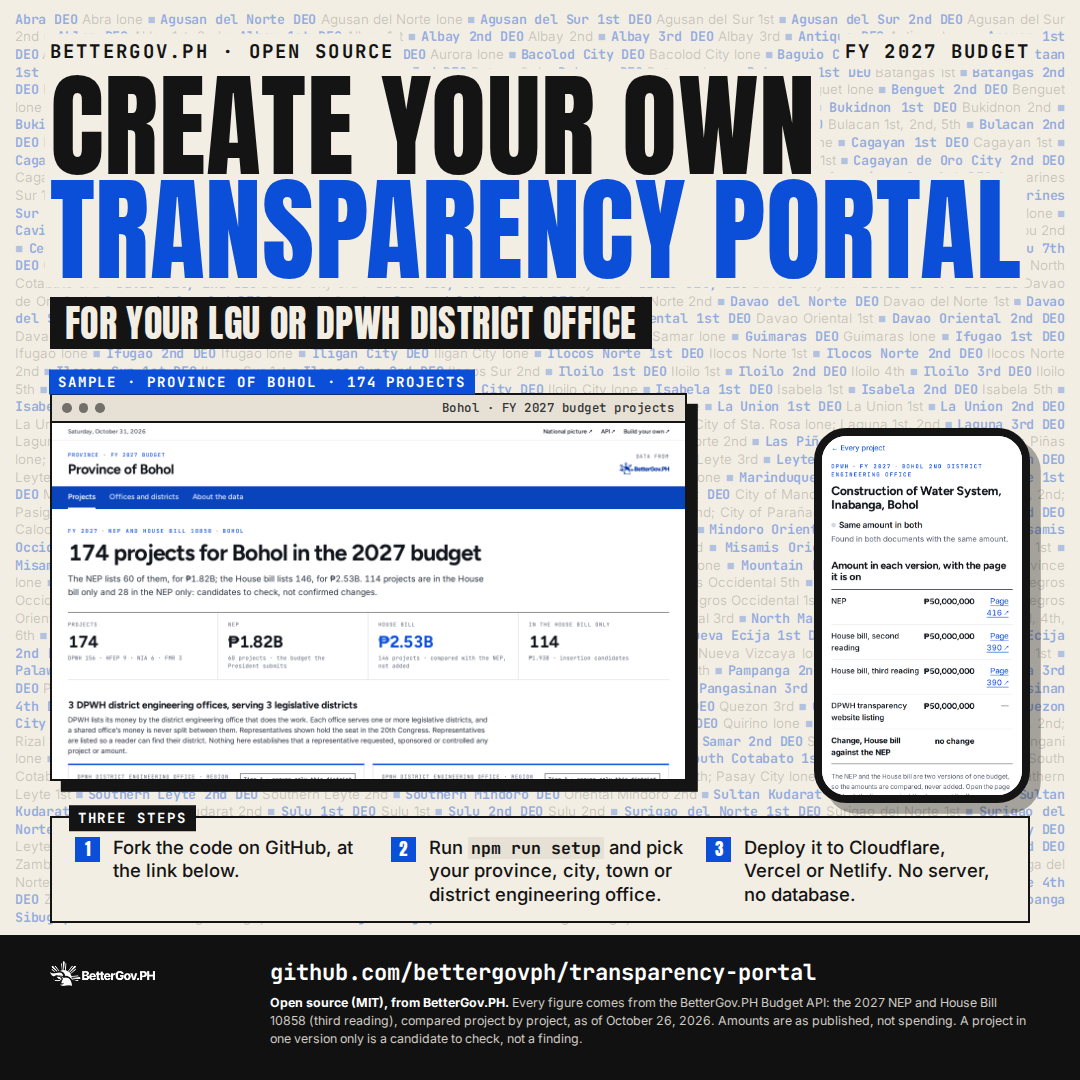
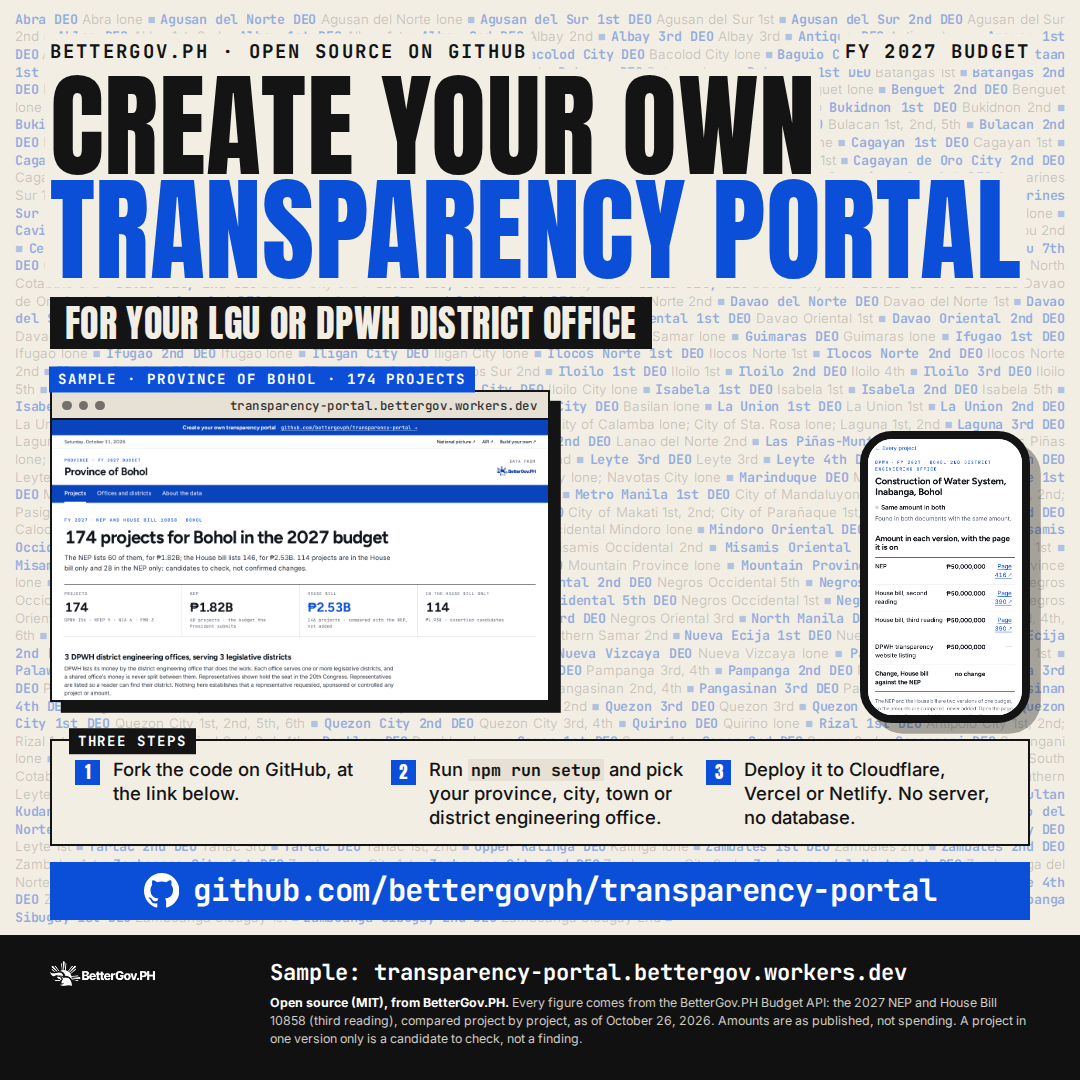
feat: the GitHub link, louder; the sample, live
- A blue "Create your own transparency portal" strip above the masthead
  links to the source on GitHub. On by default; buildYourOwnStrip: false
  turns it off.
- The sample (Province of Bohol) is deployed to BetterGov's Cloudflare at
  https://transparency-portal.bettergov.workers.dev; siteUrl is set to it
  so link previews carry the right canonical address. The README links it.
- Poster: the repository address in a full-width blue band with the GitHub
  mark; the browser frame shows the sample's real address and the footer
  names it. The sample image now sizes itself to the space the band leaves.
- README poster links carry ?v= so the one-day R2 cache cannot serve the
  old versions.

Changed region(s): [[0.0306, 0.3361, 0.9778, 0.8556], [0.2444, 0.8861, 0.8556, 0.9167], [0.3667, 0.0306, 0.4889, 0.0611]]

diff --git a/scripts/build-poster.ts b/scripts/build-poster.ts
@@ -40,6 +40,11 @@ const SITE = (args.site ?? 'http://127.0.0.1:5132').replace(/\/+$/, '');
 /** A project shown on the phone: one with the same amount in both versions, so the poster singles out no change. */
 const PHONE_PROJECT = args.project ?? 'dpwh/house-reading%3A5256';
 const REPO = 'github.com/bettergovph/transparency-portal';
+/** The sample's address, shown in the browser bar when the config has one. */
+const SAMPLE_HOST = config.siteUrl ? new URL(config.siteUrl).host : null;
+/** GitHub's mark (octicon mark-github), white, beside the repository address. */
+const GITHUB_MARK =
+  '<svg viewBox="0 0 16 16" aria-hidden="true"><path fill="currentColor" d="M8 0C3.58 0 0 3.58 0 8c0 3.54 2.29 6.53 5.47 7.59.4.07.55-.17.55-.38 0-.19-.01-.82-.01-1.49-2.01.37-2.53-.49-2.69-.94-.09-.23-.48-.94-.82-1.13-.28-.15-.68-.52-.01-.53.63-.01 1.08.58 1.23.82.72 1.21 1.87.87 2.33.66.07-.52.28-.87.51-1.07-1.78-.2-3.64-.89-3.64-3.95 0-.87.31-1.59.82-2.15-.08-.2-.36-1.02.08-2.12 0 0 .67-.21 2.2.82.64-.18 1.32-.27 2-.27.68 0 1.36.09 2 .27 1.53-1.04 2.2-.82 2.2-.82.44 1.1.16 1.92.08 2.12.51.56.82 1.27.82 2.15 0 3.07-1.87 3.75-3.65 3.95.29.25.54.73.54 1.48 0 1.07-.01 1.93-.01 2.2 0 .21.15.46.55.38A8.013 8.013 0 0016 8c0-4.42-3.58-8-8-8z"/></svg>';
 
 const api = createClient(env.VITE_API_BASE || config.api || DEFAULT_API);
 const esc = (s: string) => s.replace(/[&<>"]/g, (c) => ({ '&': '&amp;', '<': '&lt;', '>': '&gt;', '"': '&quot;' })[c]!);
@@ -167,6 +172,11 @@ function html(f: Format, d: Awaited<ReturnType<typeof loadData>>, shots: { deskt
                 font-family: Anton, Impact, sans-serif; font-weight: 400; font-size: ${1.6 * u}px; color: #fff; background: var(--blue); }
   .steps code { font-family: 'JetBrains Mono', monospace; font-weight: 700; font-size: 0.9em; background: #e7e1d5; padding: 0 ${0.3 * u}px; }
 
+  .cta { position: absolute; left: ${4.6 * u}px; right: ${4.6 * u}px; }
+  .cta span { display: flex; align-items: center; justify-content: center; gap: ${1.3 * u}px; width: 100%; white-space: nowrap;
+              font-family: 'JetBrains Mono', monospace; font-weight: 700; font-size: ${(square ? 2.85 : 3.15) * u}px; line-height: 1; letter-spacing: -0.01em;
+              color: #fff; background: var(--blue); padding: ${(square ? 1.05 : 1.25) * u}px ${1.5 * u}px; }
+  .cta svg { width: 1.15em; height: 1.15em; flex-shrink: 0; }
   .foot { position: absolute; left: 0; right: 0; bottom: 0; height: ${foot}px; background: #111; color: #f3eee4;
           padding: ${(square ? 2 : 2.4) * u}px ${4.6 * u}px; display: grid; grid-template-columns: ${17 * u}px 1fr; column-gap: ${3.4 * u}px; align-items: start;
           font-family: Inter, sans-serif; }
@@ -177,7 +187,7 @@ function html(f: Format, d: Awaited<ReturnType<typeof loadData>>, shots: { deskt
 
   const titleSize = (square ? 10.4 : 12.6) * u;
   const steps = [
-    square ? 'Fork the code on GitHub, at the link below.' : `Fork <code>${REPO.replace('github.com/', '')}</code>.`,
+    'Fork the code on GitHub, at the link below.',
     `Run <code>npm run setup</code> and pick your province, city, town or district engineering office.`,
     `Deploy it to Cloudflare, Vercel or Netlify. No server, no database.`,
   ];
@@ -192,7 +202,7 @@ function html(f: Format, d: Awaited<ReturnType<typeof loadData>>, shots: { deskt
 <div class="poster">
   <div class="wall" id="wall"></div>
   <div class="head" id="head">
-    <div class="kick"><span>BetterGov.PH · Open source</span><span>FY 2027 budget</span></div>
+    <div class="kick"><span>BetterGov.PH · Open source on GitHub</span><span>FY 2027 budget</span></div>
     <h1 class="title" style="font-size:${titleSize}px"><span>Create your own</span><span class="blue">transparency portal</span></h1>
     <div class="strap"><span>For your LGU or DPWH district office</span></div>
     ${square ? '' : `<p class="sub"><span>Show every 2027 project in your area: what the NEP gave it, what the House bill gives it, and the page in the budget documents for each figure.</span></p>`}
@@ -200,7 +210,7 @@ function html(f: Format, d: Awaited<ReturnType<typeof loadData>>, shots: { deskt
   <div class="shots" id="shots">
     <div class="browser">
       <span class="tab">Sample · ${esc(config.name)} · ${count(d.projects)} projects</span>
-      <div class="bar"><i></i><i></i><i></i><span>${esc(name)} · FY 2027 budget projects</span></div>
+      <div class="bar"><i></i><i></i><i></i><span>${esc(SAMPLE_HOST ?? `${name} · FY 2027 budget projects`)}</span></div>
       <img src="${shots.desktop}" alt="">
     </div>
     <div class="phone" id="phone"><img src="${shots.mobile}" alt=""></div>
@@ -209,9 +219,10 @@ function html(f: Format, d: Awaited<ReturnType<typeof loadData>>, shots: { deskt
     <span class="tab">Three steps</span>
     <ol>${steps.map((s, i) => `<li><b>${i + 1}</b><span>${s}</span></li>`).join('')}</ol>
   </div>
+  <div class="cta" id="cta"><span>${GITHUB_MARK}${REPO}</span></div>
   <div class="foot">
     <img src="${LOGO}" alt="BetterGov.PH">
-    <div><p class="url">${REPO}</p><p class="fine">${fine}</p></div>
+    <div><p class="url">${SAMPLE_HOST ? `Sample: ${esc(SAMPLE_HOST)}` : REPO}</p><p class="fine">${fine}</p></div>
   </div>
 </div></body></html>`;
 }
@@ -241,23 +252,43 @@ async function main() {
         const head = document.getElementById('head')!;
         const shots = document.getElementById('shots')!;
         const steps = document.getElementById('steps')!;
+        const cta = document.getElementById('cta')!;
         const phone = document.getElementById('phone')!;
+        const browser = shots.querySelector('.browser') as HTMLElement;
         const headBottom = head.getBoundingClientRect().bottom;
         const stepsH = steps.getBoundingClientRect().height;
-        // The phone overlaps the browser's lower right corner and hangs 2 units below it.
-        const browserH = shots.querySelector('.browser')!.getBoundingClientRect().height;
-        const phoneH = phone.getBoundingClientRect().height;
-        phone.style.top = `${browserH - phoneH + 2 * u}px`;
-        const shotsH = Math.max(browserH + u, browserH + 2 * u, phoneH);
-        // The "Sample" label sits above the browser frame; leave room for it.
+        const ctaH = cta.getBoundingClientRect().height;
         const tabH = (shots.querySelector('.tab') as HTMLElement).getBoundingClientRect().height;
-        const free = H - foot - headBottom - tabH - stepsH - shotsH;
-        const gap = Math.max(1.4 * u, free / 3);
-        const top = headBottom + gap * 1.2 + tabH;
-        shots.style.top = `${top}px`;
+
+        // The screenshot takes whatever height is left once every gap has its minimum:
+        // its width follows (the capture is 1280 × 720), the phone a fixed share of it.
+        const minGap = 1.4 * u;
+        const chrome = browser.getBoundingClientRect().height - browser.querySelector('img')!.getBoundingClientRect().height;
+        const hang = 2 * u; // the phone hangs this far below the browser
+        const room = H - foot - headBottom - tabH - stepsH - ctaH - 4 * minGap - hang;
+        const maxW = (square ? 62 : 74) * u;
+        const width = Math.min(maxW, ((room - chrome) * 1280) / 720);
+        browser.style.width = `${width}px`;
+        phone.style.width = `${width * (square ? 0.34 : 0.31)}px`;
+
+        // The phone overlaps the browser's lower right corner.
+        const browserH = browser.getBoundingClientRect().height;
+        const phoneH = phone.getBoundingClientRect().height;
+        phone.style.top = `${browserH - phoneH + hang}px`;
+        const shotsH = Math.max(browserH + hang, phoneH);
+
+        // Spread what is left over the four gaps: head, sample, steps, GitHub band, footer.
+        const free = H - foot - headBottom - tabH - shotsH - stepsH - ctaH;
+        const gap = Math.max(minGap * 0.8, free / 4);
+        let y = headBottom + gap + tabH;
+        shots.style.top = `${y}px`;
         shots.style.height = `${shotsH}px`;
-        steps.style.top = `${top + shotsH + gap * 0.9}px`;
-        return { headBottom, free, stepsBottom: steps.getBoundingClientRect().bottom, footTop: H - foot };
+        y += shotsH + gap;
+        steps.style.top = `${y}px`;
+        y += stepsH + gap;
+        cta.style.top = `${y}px`;
+        const stepsBottom = cta.getBoundingClientRect().bottom;
+        return { headBottom, free, stepsBottom, footTop: H - foot, width };
       }, { W: f.W, H: f.H, square: f.W === f.H });
 
       // The wall: every office, at the largest size that fits.
@@ -278,9 +309,9 @@ async function main() {
       const png = join(OUT, `create-your-own-transparency-portal-${f.key}.png`);
       await page.screenshot({ path: png });
       await page.close();
-      console.log(`${f.key}: head ends ${Math.round(lay.headBottom)}, steps end ${Math.round(lay.stepsBottom)} / footer ${Math.round(lay.footTop)}, wall ${data.offices} offices at ${font.toFixed(1)}px → ${png}`);
+      console.log(`${f.key}: head ends ${Math.round(lay.headBottom)}, sample ${Math.round(lay.width)}px wide, GitHub band ends ${Math.round(lay.stepsBottom)} / footer ${Math.round(lay.footTop)}, wall ${data.offices} offices at ${font.toFixed(1)}px → ${png}`);
       if (lay.stepsBottom > lay.footTop) {
-        console.error(`${f.key}: the steps run into the footer (${Math.round(lay.stepsBottom - lay.footTop)}px); tighten the layout.`);
+        console.error(`${f.key}: the GitHub band runs into the footer (${Math.round(lay.stepsBottom - lay.footTop)}px); tighten the layout.`);
         exit(1);
       }
     }

diff --git a/src/styles/app.css b/src/styles/app.css
@@ -15,6 +15,23 @@
 .strong { font-weight: 600; }
 .r { text-align: right; }
 
+/* ---------- "Create your own" strip (above the masthead) ---------- */
+.build-strip {
+  display: flex;
+  justify-content: center;
+  align-items: baseline;
+  flex-wrap: wrap;
+  gap: 4px 14px;
+  padding: 9px var(--gutter);
+  background: var(--accent);
+  color: #fff;
+  text-decoration: none;
+  text-align: center;
+}
+.build-strip:hover { background: var(--accent-deep); color: #fff; }
+.build-strip-title { font-family: var(--font-hero); font-weight: 700; font-size: 14px; letter-spacing: 0.01em; }
+.build-strip-url { font-family: var(--font-mono); font-weight: 500; font-size: 13px; text-decoration: underline; text-underline-offset: 3px; text-decoration-color: rgba(255, 255, 255, 0.55); }
+
 /* ---------- Masthead ---------- */
 .masthead { background: var(--paper); }
 .masthead-top { border-bottom: 1px solid var(--rule-soft); font-family: var(--font-hero); font-size: 12px; font-weight: 600; }

diff --git a/src/components/Chrome.tsx b/src/components/Chrome.tsx
@@ -21,6 +21,16 @@ export function Masthead() {
     [],
   );
   return (
+    <>
+    {config.buildYourOwnStrip !== false && (
+      // Above the masthead, so it scrolls away; a plain link to the source.
+      <a className="build-strip" href={SOURCE_CODE_URL} target="_blank" rel="noopener">
+        <span className="build-strip-title">Create your own transparency portal</span>
+        <span className="build-strip-url">
+          {SOURCE_CODE_URL.replace(/^https:\/\//, '')} <span aria-hidden="true">→</span>
+        </span>
+      </a>
+    )}
     <header className="masthead">
       <div className="masthead-top">
         <div className="page masthead-top-inner">
@@ -73,6 +83,7 @@ export function Masthead() {
         </div>
       </nav>
     </header>
+    </>
   );
 }
 

diff --git a/src/config.ts b/src/config.ts
@@ -58,6 +58,11 @@ export interface PortalConfig {
   logo?: string;
   /** Canonical URL of this deployment, for link previews. */
   siteUrl?: string;
+  /**
+   * The blue "Create your own transparency portal" strip above the masthead,
+   * linking to the source on GitHub. On unless set to false.
+   */
+  buildYourOwnStrip?: boolean;
   /** Budget API host. Default https://budget.bettergov.ph. VITE_API_BASE overrides it. */
   api?: string;
   scope: {

diff --git a/portal.config.ts b/portal.config.ts
@@ -17,6 +17,8 @@ export default defineConfig({
   name: 'Province of Bohol',
   shortName: 'Bohol',
   operator: { name: 'BetterGov.ph', url: 'https://bettergov.ph' },
+  // Where this example is deployed. Change it (or remove it) in your fork.
+  siteUrl: 'https://transparency-portal.bettergov.workers.dev',
   scope: {
     offices: [
       'Bohol 1st District Engineering Office',

diff --git a/README.md b/README.md
@@ -9,6 +9,9 @@ and the page of the source document each figure is on.
   <img src="docs/poster/create-your-own-transparency-portal-1080x1080.png" alt="Create your own transparency portal: for your LGU or DPWH district office. A sample portal for the Province of Bohol, and three steps: fork, run npm run setup, deploy." width="540">
 </p>
 
+**See a sample:** [transparency-portal.bettergov.workers.dev](https://transparency-portal.bettergov.workers.dev),
+the Province of Bohol, built from this repository as it is.
+
 It has no backend and no database. Everything comes from the public
 [BetterGov.ph Budget API](https://budget.bettergov.ph/docs), the same data behind
 [budget.bettergov.ph](https://budget.bettergov.ph/hgab/2027/overview). Build it once and
@@ -122,8 +125,8 @@ different API host (a staging copy, for example). More in [docs/deploy.md](docs/
 ## Poster
 
 "Create your own transparency portal", for sharing: a
-[feed post (1080×1350)](https://budget-assets.bettergov.ph/hgab/2027/campaign/create-your-own-transparency-portal-1080x1350.png)
-and a [square post (1080×1080)](https://budget-assets.bettergov.ph/hgab/2027/campaign/create-your-own-transparency-portal-1080x1080.png),
+[feed post (1080×1350)](https://budget-assets.bettergov.ph/hgab/2027/campaign/create-your-own-transparency-portal-1080x1350.png?v=222d351a)
+and a [square post (1080×1080)](https://budget-assets.bettergov.ph/hgab/2027/campaign/create-your-own-transparency-portal-1080x1080.png?v=9689903f),
 also in [`docs/poster/`](docs/poster) and the
 [BetterGov campaign gallery](https://budget-assets.bettergov.ph/hgab/2027/campaign/index.html).
 
